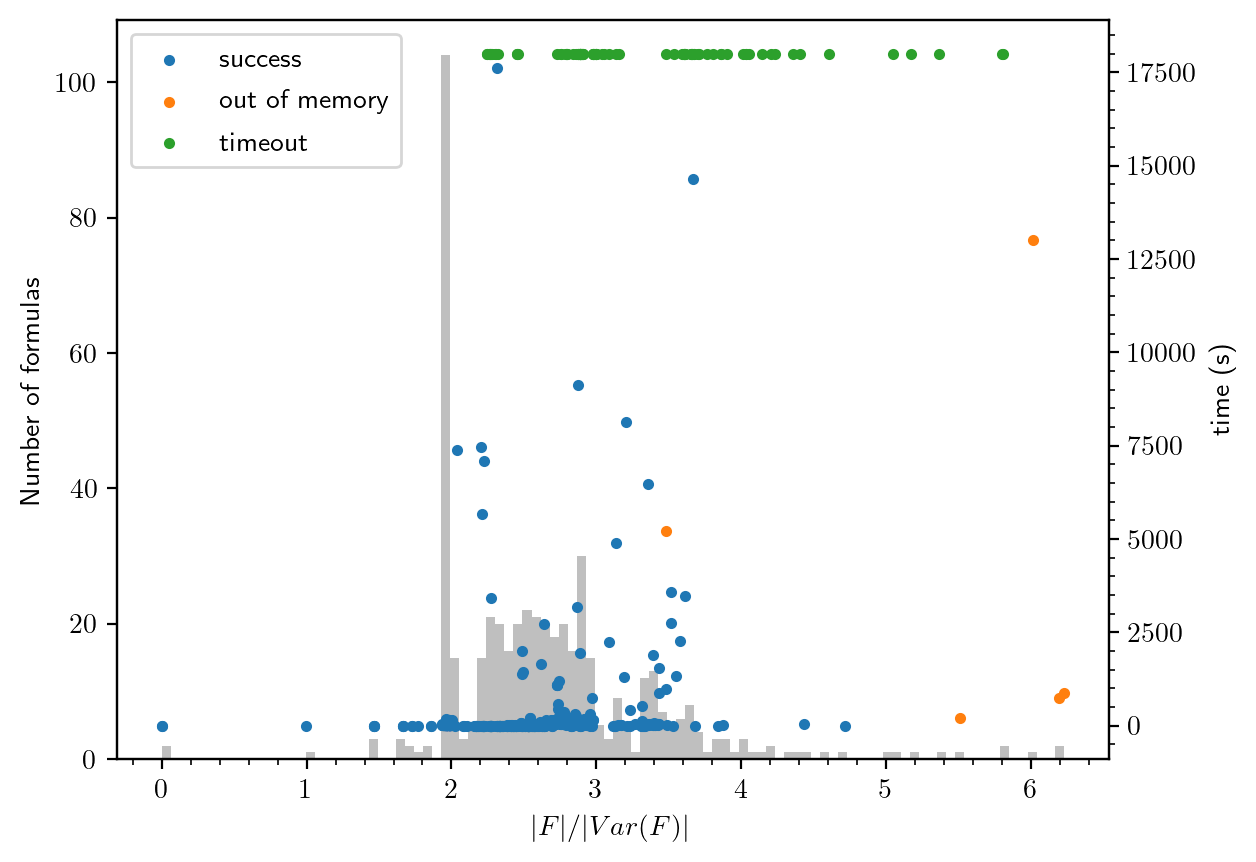
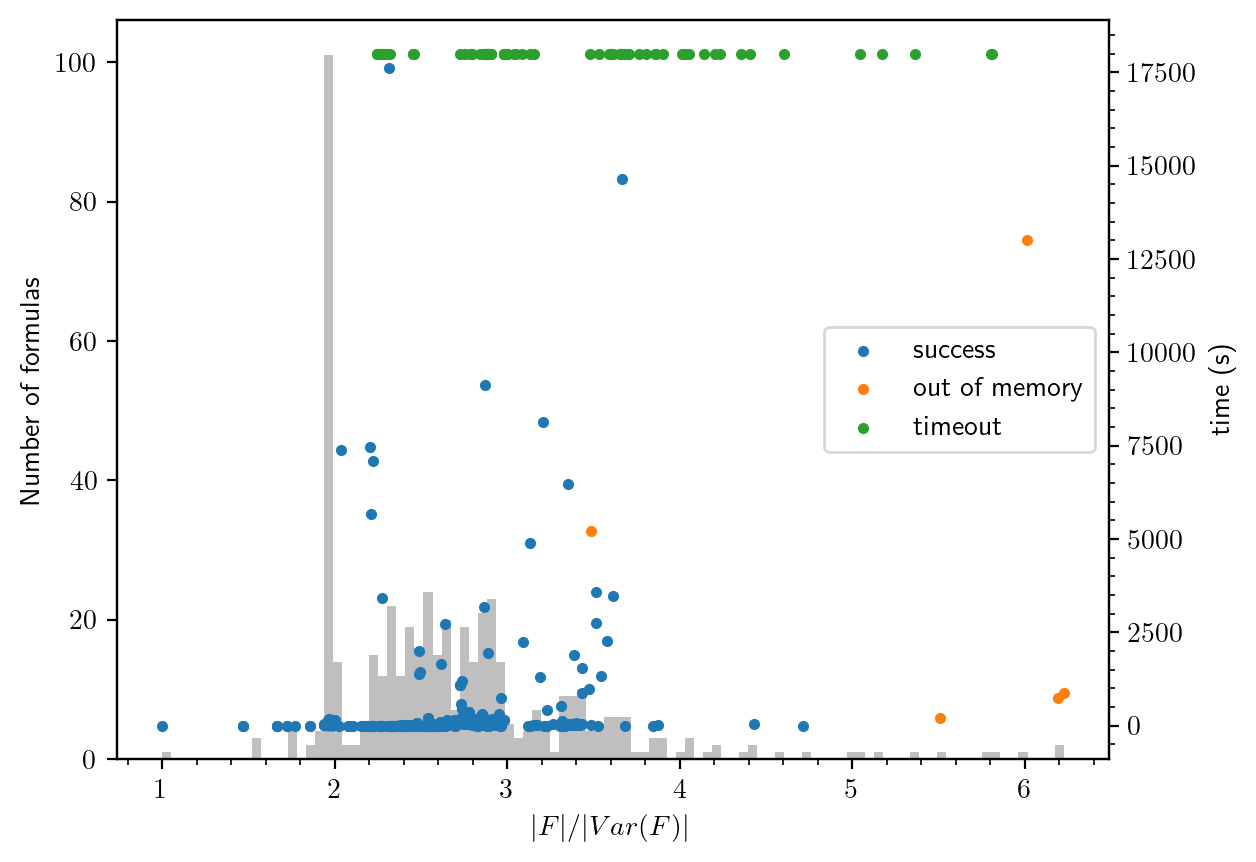
od

diff --git a/RQ2_graphs/run.py b/RQ2_graphs/run.py
@@ -15,6 +15,9 @@ for s in ["d4", "spur", "sharpSAT", "ug3", "mcTw"]:
     f3 = mpl.figure(nb_fig)
     nb_fig += 1
 
+    f4 = mpl.figure(nb_fig)
+    nb_fig += 1
+
     for i in range(3, 5):
         ncls = pd.read_csv(f"data/r50k{i}_cls.csv", skipinitialspace = True, index_col = 'file')
         sp = pd.read_csv(f"data/r50k{i}_{s}.csv", skipinitialspace = True, index_col = 'file')
@@ -46,6 +49,11 @@ for s in ["d4", "spur", "sharpSAT", "ug3", "mcTw"]:
         mpl.figure(f3)
         mpl.scatter(succ.lmc_ratio, succ.time, label = f'k = {i}', marker = '.')
 
+        mpl.figure(f4)
+        #mpl.scatter(succ.lmc_ratio, succ.ratio, label = f'k = {i}', marker = '.')
+        if i == 4:
+            mpl.hist(d.lmc_ratio, bins = 40, label = f'k = {i}')
+
 
     mpl.figure(f1)
     mpl.legend()
@@ -73,3 +81,12 @@ for s in ["d4", "spur", "sharpSAT", "ug3", "mcTw"]:
     mpl.minorticks_on()
     # mpl.xlim(left = 0.1)
     mpl.savefig(f"var_k_f3_{s}.png", dpi = dpi, bbox_inches = 'tight')
+
+    mpl.figure(f4)
+    mpl.legend()
+    mpl.grid()
+    mpl.xlabel("$log_2(|R_F|) / |Var(F)|$")
+    mpl.ylabel("$|F| / |Var(F)|$")
+    mpl.minorticks_on()
+    # mpl.xlim(left = 0.1)
+    mpl.savefig(f"var_k_f4_{s}.png", dpi = dpi, bbox_inches = 'tight')

diff --git a/RQ3_graphs/run.py b/RQ3_graphs/run.py
@@ -34,7 +34,9 @@ for sampler in ["unigen3", "spur", "d4", "sharpSAT", "mcTw"]:
         total_time[sampler] = 0
     # data.dropna(inplace = True)
 
-    data['r'] = data['#c-u'] / (data['#v'] - data['#vu'] - data['#vf'] + 1)
+    data['#vc'] = data['#v'] - data['#vu'] - data['#vf']
+    data = data[data['#vc'] > 0]
+    data['r'] = data['#c-u'] / (data['#v'] - data['#vu'] - data['#vf'])
 
 
     done = data[data['state'] == 'done']
